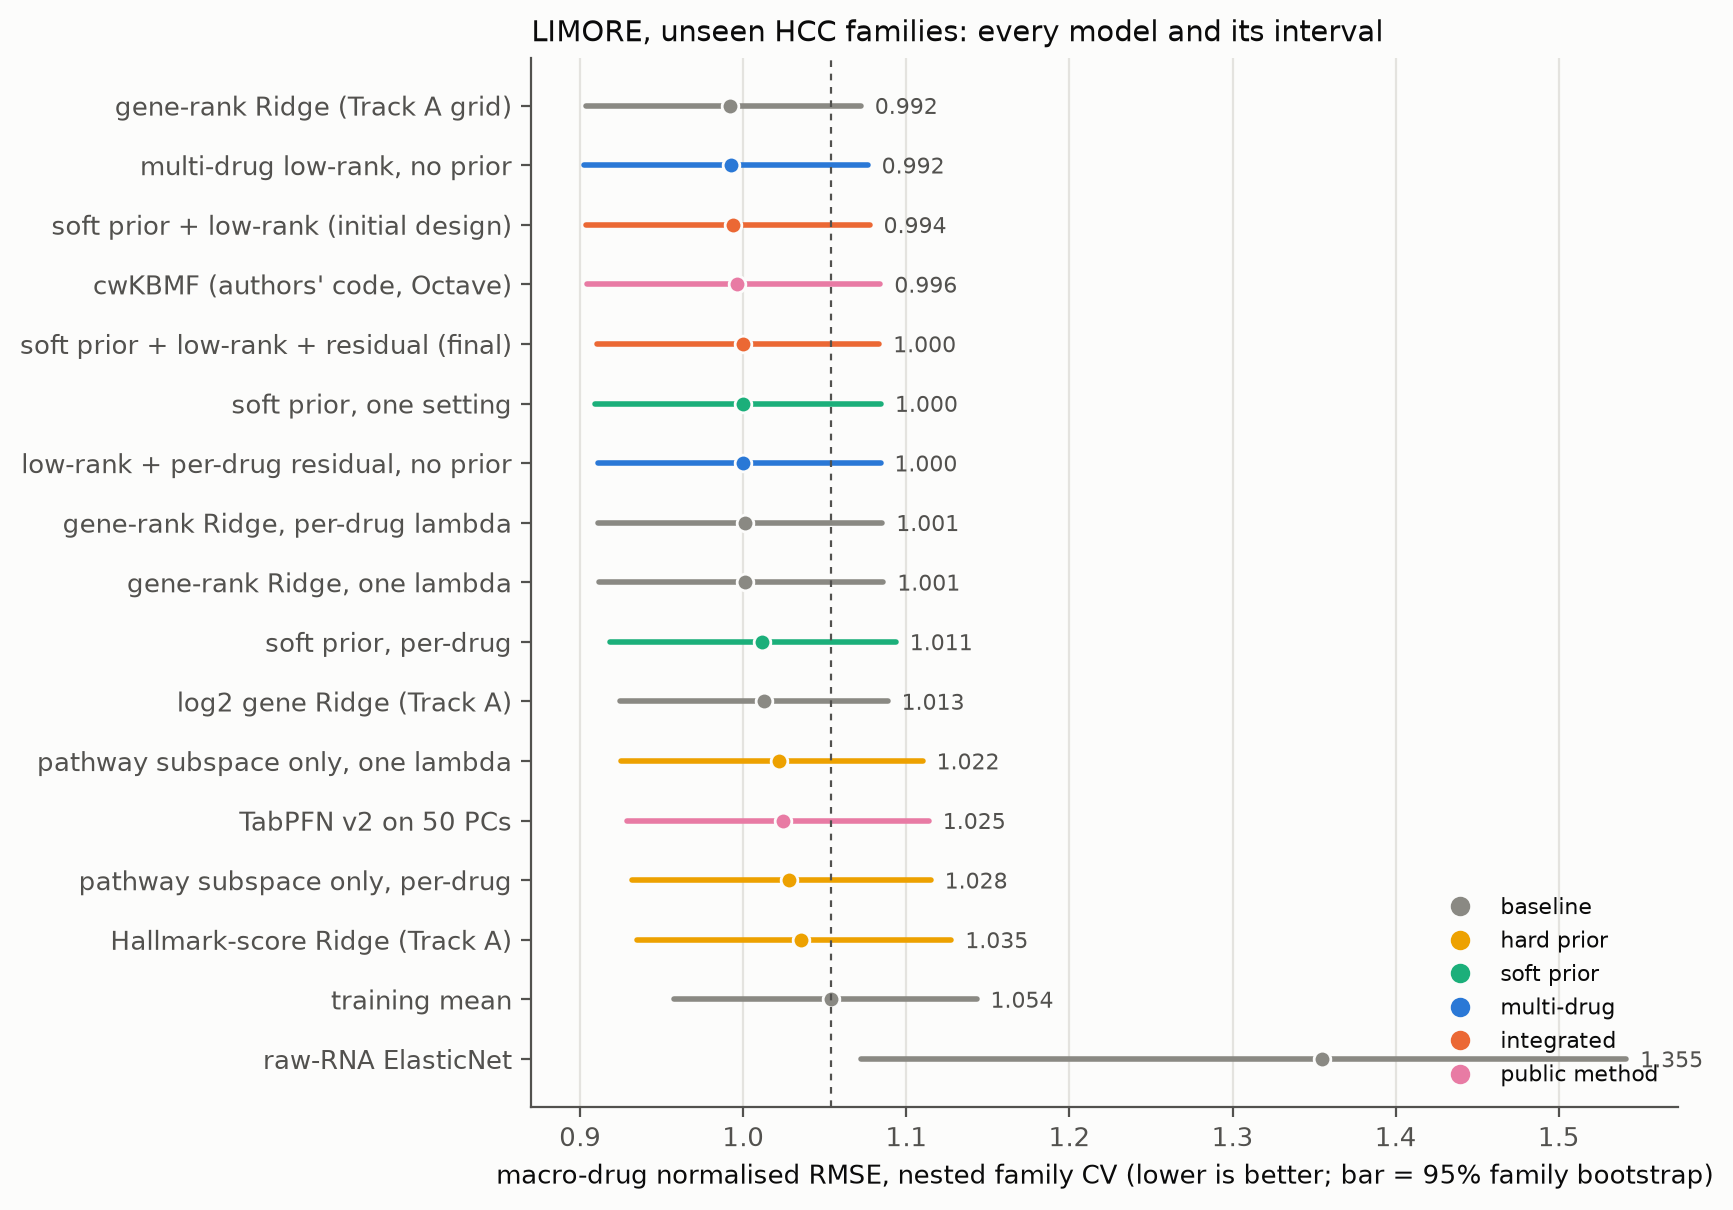
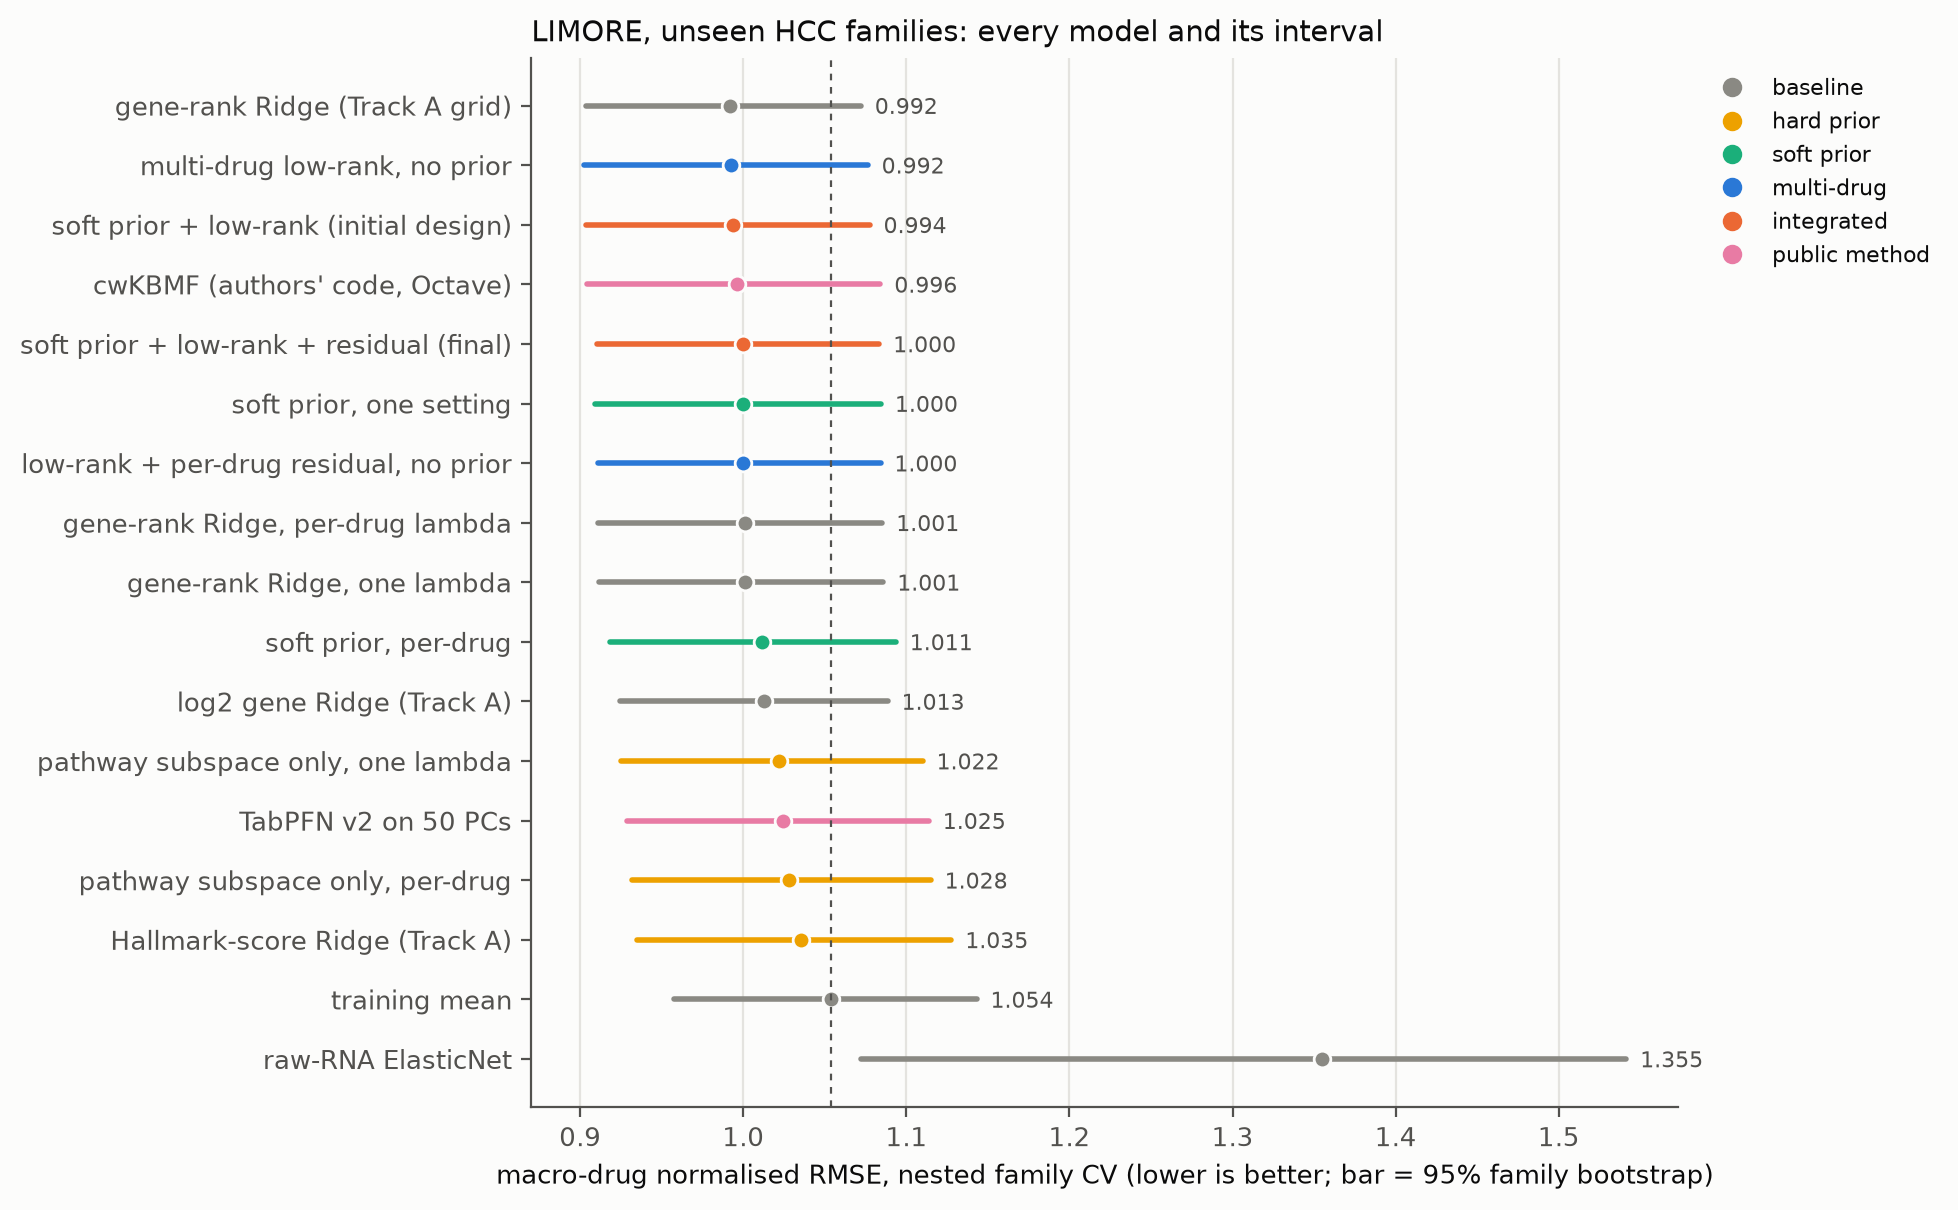
R1: figures redrawn with legends outside the axes; cwKBMF component choice recorded

diff --git a/reports/softprior_multitask_r1/RESULTS.md b/reports/softprior_multitask_r1/RESULTS.md
@@ -144,6 +144,7 @@
 
 **cwKBMF 행의 범위.** 저자 공개물에는 학습·예측 함수와 작은 시연만 있고 자료 처리 과정이 없습니다. 그래서 다음은 이 연구가 정한 값입니다: Hallmark 50개 각각의 유전자 + 나머지 유전자 전체로 만든 kernel 51개, Gaussian kernel의 폭, 반복 200회, 성분 수 후보 {10, 20}(안쪽 fold로 선택). 표의 숫자는 "저자 코드를 이 과제에 적용한 결과"이며 원 논문 결과의 재현이 아닙니다.
 
+- **관측:** 성분 수는 학습 집합 42개 모두에서 후보 중 큰 값(20)이 선택됐습니다. 더 큰 값은 시험하지 않았습니다(동결한 후보 집합).
 - **관측:** cwKBMF는 내부에서 통합 모델과 차이가 없습니다(+0.0038 [−0.0062, +0.0138]). LCCL에서는 순위 일치도가 0 근처입니다.
 - **관측(정답을 쓰지 않은 확인):** cwKBMF의 LCCL 예측은 세포 사이의 퍼짐이 Ridge의 약 1/10입니다(약물별 표준편차 평균 0.008 대 0.080). 세포를 거의 구분하지 않습니다.
 - **검증하지 않은 설명:** LCCL 세포의 RNA는 측정 연구가 달라 LIMORE 세포 모두와 kernel 거리가 비슷하게 멉니다. 확인 실험은 하지 않았고, LCCL 결과를 보고 kernel 폭을 바꾸지도 않았습니다.
